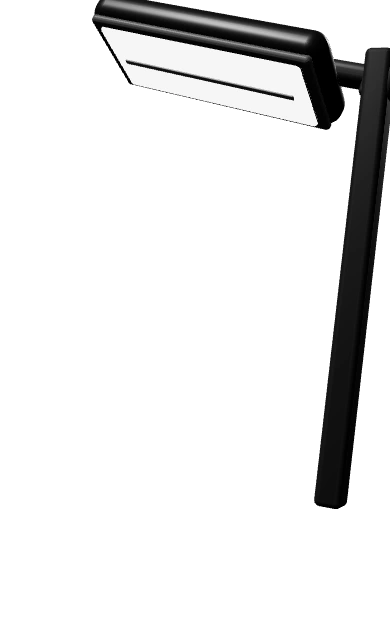
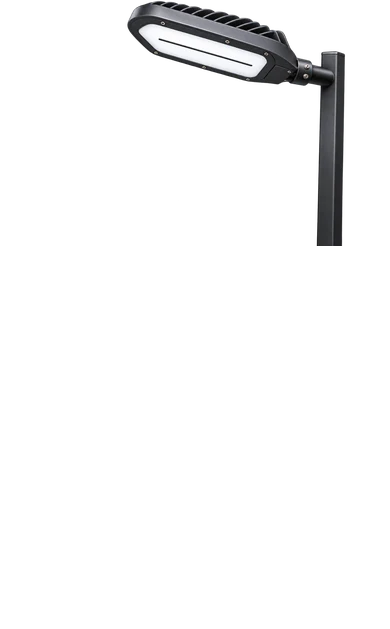
Update hero canvas and posters to the pole-mounted graphite streetlight

Changed region(s): [[0.2154, 0.0, 1.0, 0.8156]]

diff --git a/src/components/home/streetlight-scene.tsx b/src/components/home/streetlight-scene.tsx
@@ -1,6 +1,7 @@
 "use client";
 
 import { Canvas, useFrame, useThree } from "@react-three/fiber";
+import { RoundedBox } from "@react-three/drei";
 import { useEffect, useLayoutEffect, useMemo, useRef, type RefObject } from "react";
 import {
   MathUtils,
@@ -8,9 +9,8 @@ import {
   Object3D,
   Vector3,
   type Group,
-  type Mesh,
   type DirectionalLight,
-  MeshStandardMaterial,
+  type MeshStandardMaterial,
   type SpotLight,
 } from "three";
 
@@ -35,29 +35,19 @@ function configureCamera(camera: PerspectiveCamera, aspect: number) {
   camera.aspect = aspect;
   camera.fov = 39;
   if (aspect < 0.8) {
-    camera.position.set(0, -0.45, 7.25);
-    camera.lookAt(0, -0.1, 0);
+    camera.position.set(-0.62, -2.7, 8.4);
+    camera.lookAt(-0.62, -1.8, 0);
   } else {
     camera.position.set(-0.18, -1.26, 6.5);
-    camera.lookAt(0, 0, 0);
+    camera.lookAt(-0.12, -0.26, 0);
   }
   camera.updateProjectionMatrix();
   camera.updateMatrixWorld(true);
 }
 
-const chips = Array.from({ length: 40 }, (_, index) => [
-  -0.67 + (index % 10) * 0.19,
-  -0.253 + Math.floor(index / 10) * 0.16,
-]);
-const fins = Array.from({ length: 12 }, (_, index) => -0.95 + index * 0.19);
-
 function Fixture({ power, reduced, pointer, illumination, onReady, onFailure }: SceneProps) {
   const group = useRef<Group>(null);
-  const diffuser = useMemo(() => new MeshStandardMaterial({
-    color: "#e8d962", emissive: "#ffe4ae", emissiveIntensity: 0, roughness: 0.48,
-  }), []);
-  useEffect(() => () => diffuser.dispose(), [diffuser]);
-  const firstChip = useRef<Mesh>(null);
+  const diffuser = useRef<MeshStandardMaterial>(null);
   const lensCenter = useRef<Object3D>(null);
   const spotlight = useRef<SpotLight>(null);
   const reflection = useRef<DirectionalLight>(null);
@@ -95,8 +85,8 @@ function Fixture({ power, reduced, pointer, illumination, onReady, onFailure }: 
 
   useFrame((_, delta) => {
     const fixture = group.current;
-    const lens = firstChip.current?.material;
-    if (!fixture || !(lens instanceof MeshStandardMaterial) || !width || !height || !(camera instanceof PerspectiveCamera)) return;
+    const lens = diffuser.current;
+    if (!fixture || !lens || !width || !height || !(camera instanceof PerspectiveCamera)) return;
     configureCamera(camera, width / height);
     fixture.updateWorldMatrix(true, true);
     const emission = power * 3;
@@ -130,13 +120,43 @@ function Fixture({ power, reduced, pointer, illumination, onReady, onFailure }: 
   return (
     <>
     <directionalLight ref={reflection} position={[-3, 5, 3]} intensity={3.1} color="#ffffff" />
-      <group ref={group} rotation={[-0.28, -0.43, 0.28]}>
-        <object3D ref={lensCenter} position={[0, 0, 0.24]} />
-        <primitive object={target} position={[0, 0, 4]} />
+    <group ref={group} rotation={[0.02, -0.39, -0.13]}>
+      <RoundedBox
+        args={[0.25, 4.2, 0.32]}
+        radius={0.055}
+        smoothness={3}
+        position={[1.12, -1.35, 0.02]}
+      >
+        <meshStandardMaterial
+          color="#282828"
+          roughness={0.49}
+          metalness={0.42}
+        />
+      </RoundedBox>
+      <group position={[0.7, 0.57, 0]} rotation={[0, 0, -0.18]}>
+        <RoundedBox args={[1.1, 0.22, 0.24]} radius={0.09} smoothness={3}>
+          <meshStandardMaterial
+            color="#383838"
+            roughness={0.42}
+            metalness={0.55}
+          />
+        </RoundedBox>
+        <RoundedBox
+          args={[0.3, 0.32, 0.32]}
+          radius={0.055}
+          smoothness={3}
+          position={[0.45, -0.045, 0]}
+        >
+          <meshStandardMaterial color="#292929" roughness={0.52} />
+        </RoundedBox>
+      </group>
+      <group position={[-0.53, 0.69, 0.02]} rotation={[-0.34, 0.01, -0.23]}>
+        <object3D ref={lensCenter} position={[0, -0.225, 0]} />
+        <primitive object={target} position={[0, -3.8, 0.7]} />
         <spotLight
           ref={spotlight}
           target={target}
-          position={[0, 0, 0.28]}
+          position={[0, -0.24, 0]}
           intensity={0}
           distance={6}
           decay={2}
@@ -144,30 +164,76 @@ function Fixture({ power, reduced, pointer, illumination, onReady, onFailure }: 
           penumbra={0.9}
           color="#ffffff"
         />
-        <mesh position={[-1.46, 0, -0.03]} rotation={[0, 0, Math.PI / 2]}>
-          <cylinderGeometry args={[0.18, 0.18, 0.65, 24]} />
-          <meshStandardMaterial color="#292b2e" roughness={0.42} metalness={0.55} />
-        </mesh>
-        <mesh rotation={[0, 0, Math.PI / 2]} scale={[1, 1, 0.43]}>
-          <capsuleGeometry args={[0.57, 1.98, 12, 32]} />
-          <meshStandardMaterial color="#34383e" roughness={0.42} metalness={0.58} />
-        </mesh>
-        <mesh position={[0.18, 0, 0.17]}>
-          <boxGeometry args={[2.03, 0.78, 0.13]} />
-          <meshStandardMaterial color="#585b5d" roughness={0.48} metalness={0.53} />
-        </mesh>
-        {chips.map(([x, y], index) => (
-          <mesh key={index} ref={index === 0 ? firstChip : undefined} position={[x, y, 0.245]} material={diffuser}>
-            <boxGeometry args={[0.105, 0.095, 0.035]} />
-          </mesh>
+        <RoundedBox
+          args={[2.58, 0.37, 1.14]}
+          radius={0.18}
+          smoothness={5}
+          position={[0, 0.034, 0]}
+        >
+          <meshStandardMaterial
+            color="#41464e"
+            roughness={0.35}
+            metalness={0.5}
+          />
+        </RoundedBox>
+        <RoundedBox
+          args={[2.44, 0.1, 1.05]}
+          radius={0.043}
+          smoothness={3}
+          position={[0, -0.13, 0]}
+        >
+          <meshStandardMaterial
+            color="#1b1e23"
+            roughness={0.56}
+            metalness={0.32}
+          />
+        </RoundedBox>
+        <RoundedBox
+          args={[2.24, 0.09, 0.9]}
+          radius={0.043}
+          smoothness={4}
+          position={[0, -0.174, 0]}
+        >
+          <meshStandardMaterial
+            ref={diffuser}
+            color="#8c929a"
+            emissive="#ffffff"
+            emissiveIntensity={0}
+            roughness={0.37}
+            metalness={0.06}
+          />
+        </RoundedBox>
+        <RoundedBox
+          args={[1.95, 0.02, 0.055]}
+          radius={0.008}
+          smoothness={2}
+          position={[0, -0.225, 0]}
+        >
+          <meshStandardMaterial
+            color="#14171c"
+            roughness={0.53}
+            metalness={0.1}
+          />
+        </RoundedBox>
+        {Array.from({ length: 11 }, (_, index) => -1 + index * 0.19).map((x) => (
+          <RoundedBox
+            key={x}
+            args={[0.064, 0.16, 0.72 - Math.abs(x) * 0.16]}
+            radius={0.026}
+            smoothness={2}
+            position={[x, 0.25, 0]}
+          >
+            <meshStandardMaterial color="#30343a" roughness={0.42} metalness={0.62} />
+          </RoundedBox>
         ))}
-        {fins.map((x) => (
-          <mesh key={x} position={[x, 0.16, -0.23]}>
-            <boxGeometry args={[0.045, 0.66, 0.16]} />
-            <meshStandardMaterial color="#303238" roughness={0.48} metalness={0.54} />
+        {[-0.9, 0, 0.9].flatMap((x) => [-0.48, 0.48].map((z) => (
+          <mesh key={`${x}:${z}`} position={[x, -0.183, z]}>
+            <cylinderGeometry args={[0.024, 0.024, 0.018, 12]} />
+            <meshStandardMaterial color="#b5ac9c" roughness={0.35} metalness={0.75} />
           </mesh>
-        ))}
+        )))}
       </group>
+    </group>
     </>
   );
 }
